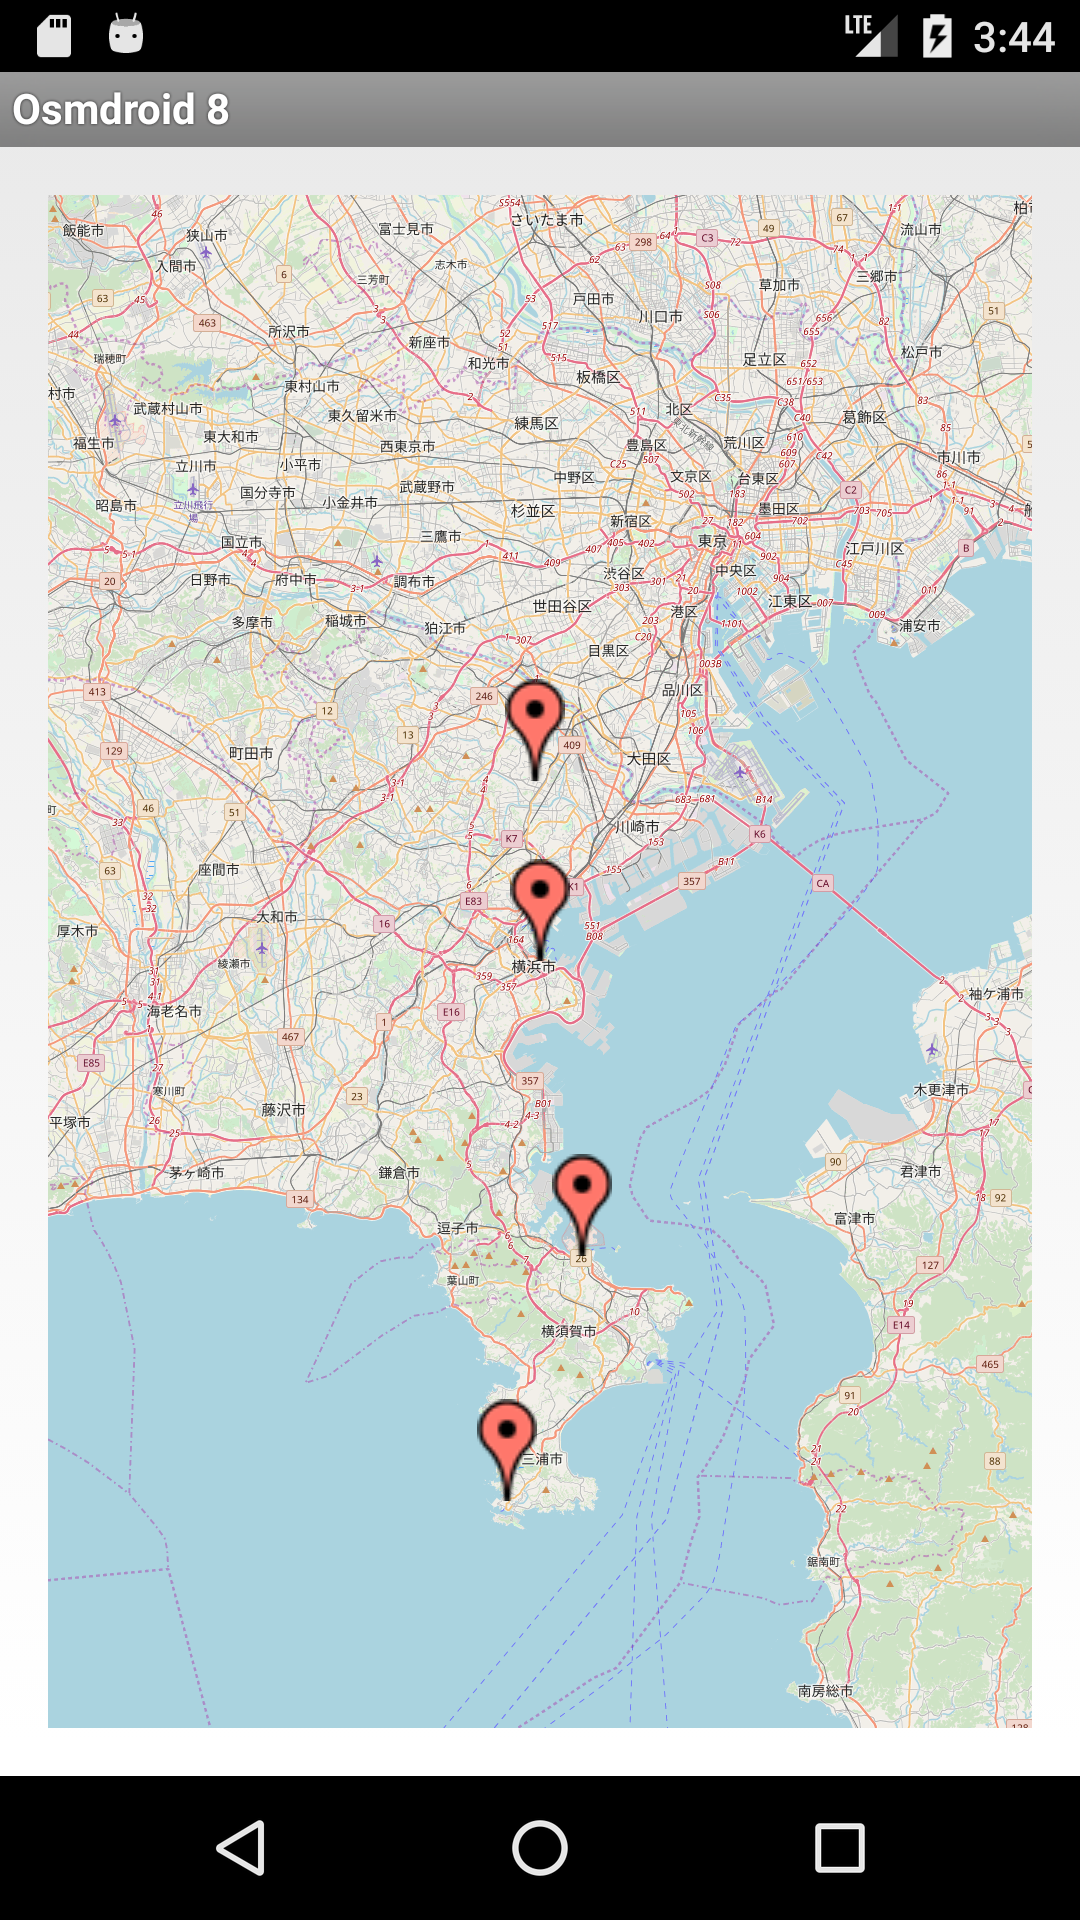
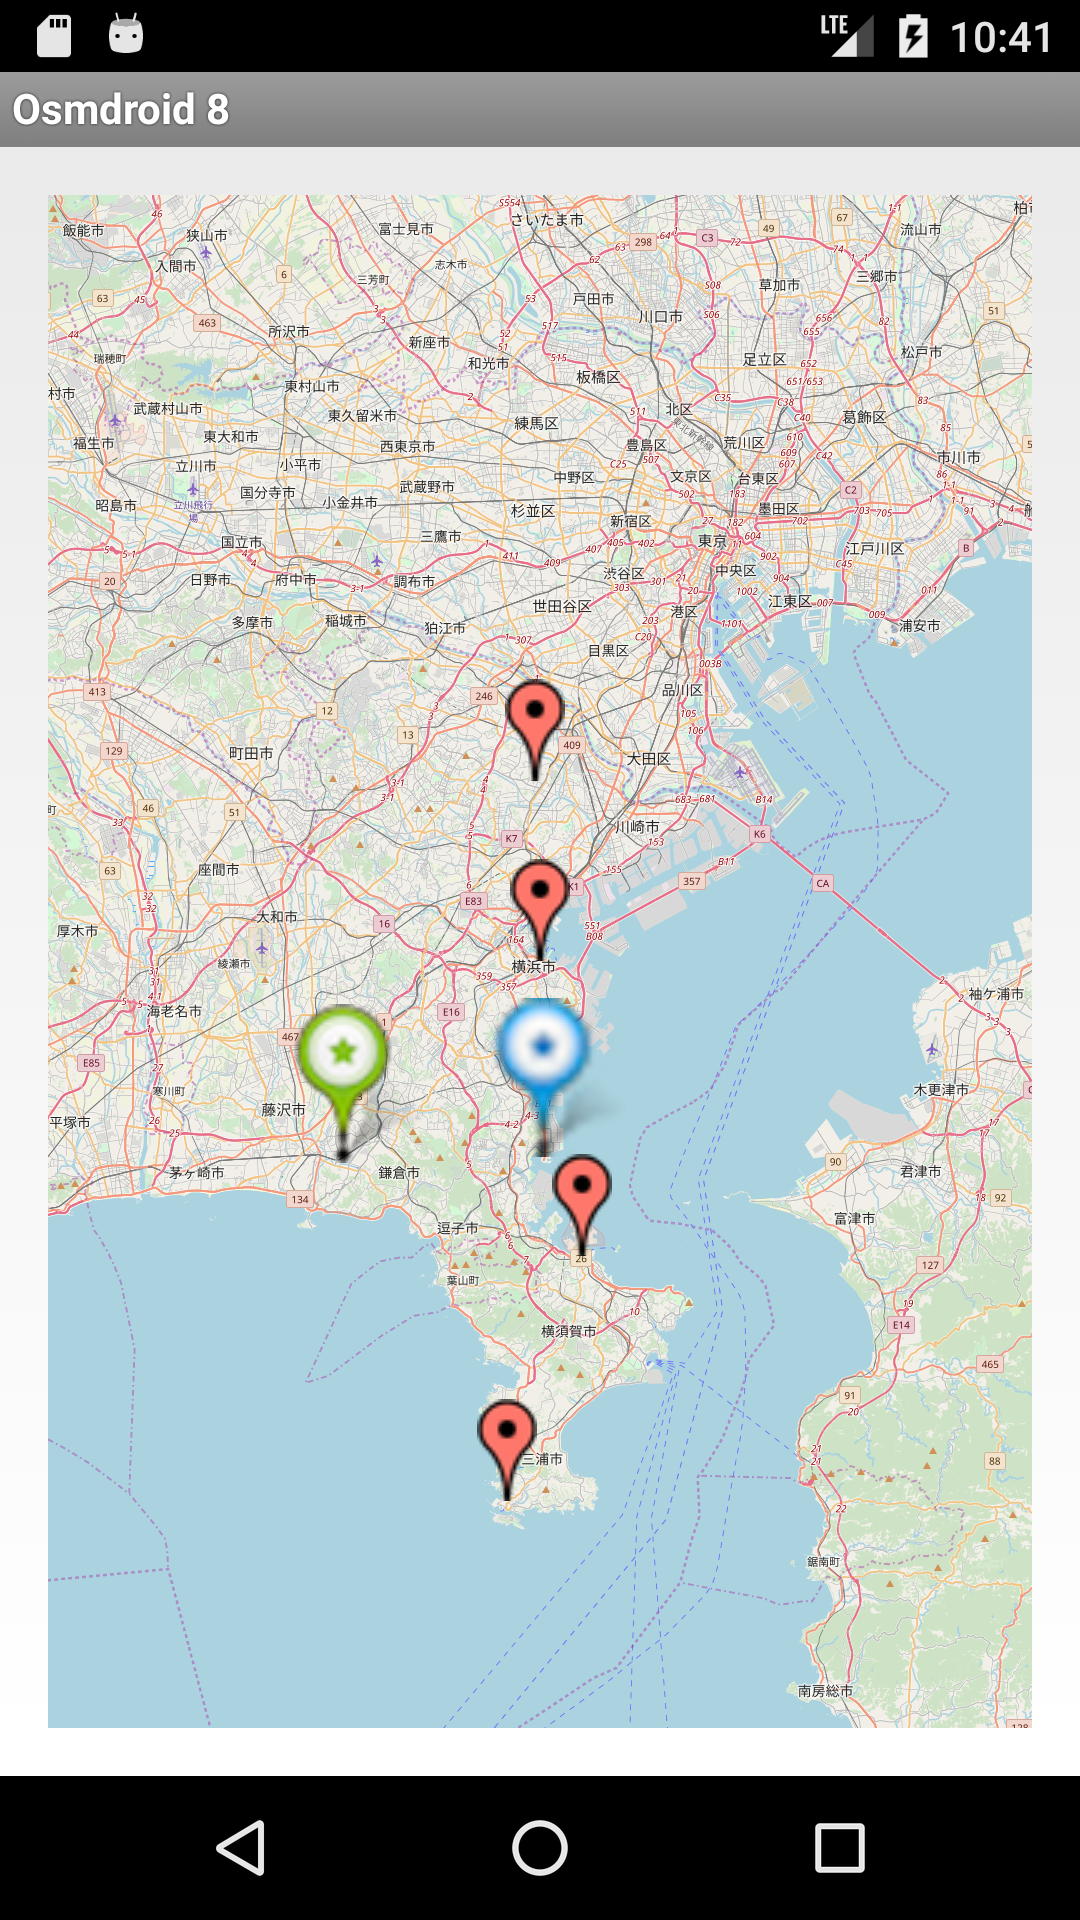
update

diff --git a/Osmdroid8/app/src/main/java/jp/ohwada/android/osmdroid8/CustomMapActivity.java b/Osmdroid8/app/src/main/java/jp/ohwada/android/osmdroid8/CustomMapActivity.java
@@ -1,6 +1,6 @@
 /**
  * Osmdroid Sample
- * OSM with Marker, custom Icon
+ * OSM with custom Marker
  * 2019-02-01 K.OHWADA 
  */
 
@@ -34,8 +34,6 @@ import org.osmdroid.views.overlay.Marker;
 import java.util.ArrayList;
 import java.util.List;
 
-import static jp.ohwada.android.osmdroid8.R.id.mapView;
-
 
 /**
  *  class CustomMapActivity
@@ -68,7 +66,7 @@ public class CustomMapActivity extends Activity {
 
         setContentView(R.layout.activity_map);
 
-    mMapView = (MapView) findViewById(mapView);
+    mMapView = (MapView) findViewById(R.id.mapView);
 
      mMapView.setBuiltInZoomControls(true);
      mMapView.setMultiTouchControls(true);
@@ -118,19 +116,49 @@ public class CustomMapActivity extends Activity {
     private void setupMarker(){
 
     Drawable icon = getResources().getDrawable(R.drawable.marker);
+    Drawable icon_1 = getResources().getDrawable(R.drawable.marker_1);
+    Drawable icon_2 = getResources().getDrawable(R.drawable.marker_2);
 
     MarkerUtil util = new MarkerUtil(this );
     List<MarkerUtil.Node> nodes =  util.getNodes();
 
     // create and show markers
     for(MarkerUtil.Node node: nodes ) {
-        Marker marker = new Marker( mMapView );
-        marker.setPosition( new GeoPoint(node.lat, node.lon ) );
-        marker.setTitle ( node.title );
-        marker.setSnippet( node.description );
-        marker.setIcon(icon);
-        mMapView.getOverlays().add(marker);
+        Marker m = new Marker( mMapView );
+        GeoPoint point = new GeoPoint(node.lat, node.lon );
+        m.setPosition( point );
+        m.setTitle ( node.title );
+        m.setSnippet( node.description );
+        // test SubDescription
+        m.setSubDescription( point.toDoubleString() );
+        // change icon
+        m.setIcon(icon);
+        mMapView.getOverlays().add(m);
     } // for
+
+// Hakkeijima
+    Drawable image = getResources().getDrawable(R.drawable.hakkeijima);
+    Marker marker_1 = new Marker( mMapView );
+    marker_1.setPosition( new GeoPoint(35.3373771, 139.6437081 ) );
+    marker_1.setIcon(icon_1);
+    // set an image to be shown in the InfoWindow
+    marker_1.setImage ( image );
+    mMapView.getOverlays().add(marker_1);
+
+    // Kamakura
+    Marker marker_2 = new Marker( mMapView );
+    marker_2.setPosition( new GeoPoint(35.3339221, 139.5057883 ) );
+    marker_2.setTitle("Kamakura");
+    marker_2.setIcon(icon_2);
+    // test ClickListener
+    marker_2.setOnMarkerClickListener( new Marker.OnMarkerClickListener() {
+        public boolean onMarkerClick(Marker marker, MapView mapView) {
+            toast_long( marker.getTitle() );
+            return true;
+        }
+    }); // setOnMarkerClickListener
+
+        mMapView.getOverlays().add(marker_2);
 
 } //  setupMarker
 

diff --git a/Osmdroid8/README.md b/Osmdroid8/README.md
@@ -10,11 +10,14 @@ Main Menu
 Map with Markers <br/>
 <image src="https://raw.githubusercontent.com/ohwada/Android_Samples/master/Osmdroid8/screenshot/osmdroid8_markers.png" width="300" /><br/>
 
-Window Info<br/>
+Window Info <br/>
 <image src="https://raw.githubusercontent.com/ohwada/Android_Samples/master/Osmdroid8/screenshot/osmdroid8_info_kawasaki.png" width="300" /><br/>
 
-Map with Markers, custom Icon <br/>
+Map with custom Markers, custom Icon <br/>
 <image src="https://raw.githubusercontent.com/ohwada/Android_Samples/master/Osmdroid8/screenshot/osmdroid8_custom_markers.png" width="300" /><br/>
+
+Image in Window Info <br/>
+<image src="https://raw.githubusercontent.com/ohwada/Android_Samples/master/Osmdroid8/screenshot/osmdroid8_image_window.png" width="300" /><br/>
 
 ### Reference <br/>
 - https://github.com/osmdroid/osmdroid
